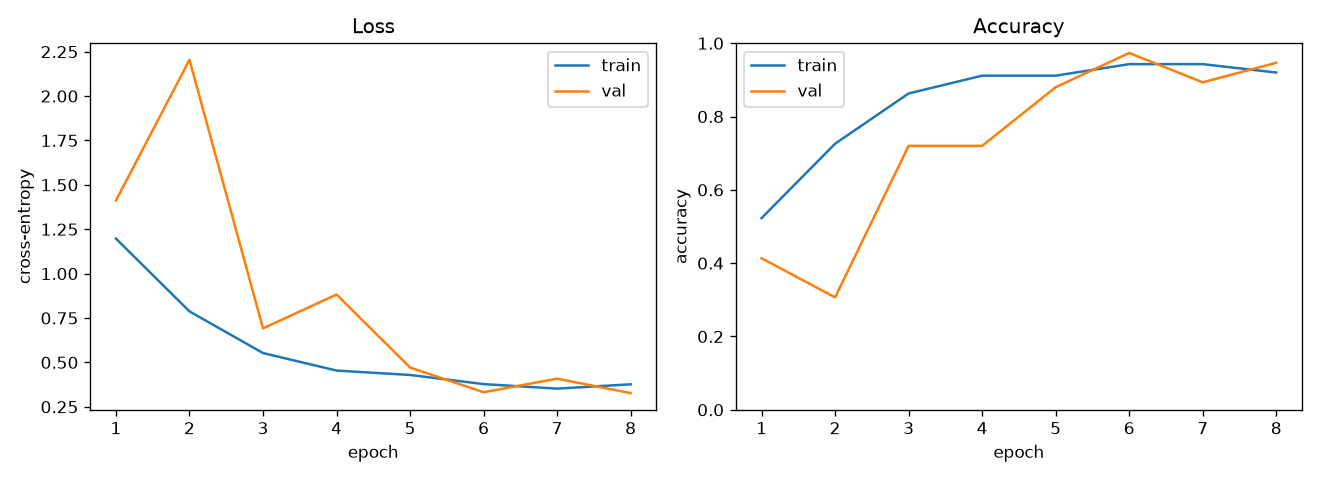
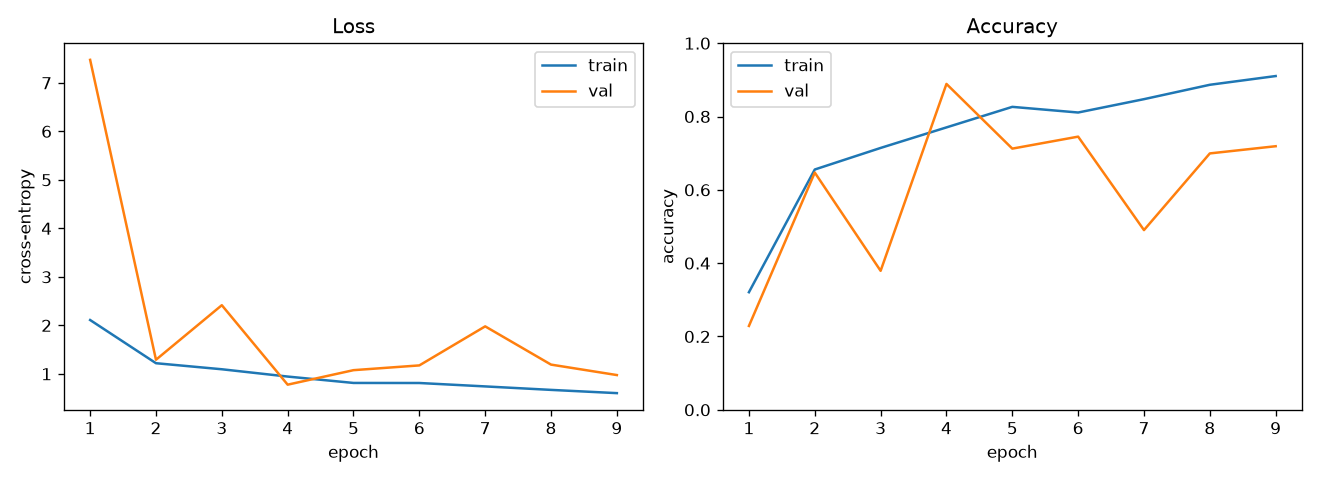
Ship ready-to-run 17-class NTLNP demo dataset and real-data downloader
The real NTLNP dataset (25,657 images on Hugging Face) and the ImageNet
weights could not be fetched here: this environment's egress policy blocks
huggingface.co and download.pytorch.org (both return 403). To keep the repo
zero-setup and honest about that constraint:

- Commit a small, ready-to-run demo dataset (data/demo_ntlnp/) using the real
  17 NTLNP species names, so the full pipeline runs straight after git clone.
  The synthetic generator now produces a visually distinct silhouette per
  class; training reaches ~0.86 test accuracy across all 17 classes.
- Add scripts/download_ntlnp.sh to clone the real dataset from Hugging Face
  via git-lfs on a machine with network access.
- Refresh committed demo plots/metrics for the 17-class run.
- Update README: one-command test on the demo data, real-data instructions,
  and a clear note on the sandbox egress restriction.

Claude-Session: https://claude.ai/code/session_01V6K9fomXbdbJNVT5RN4tm4

diff --git a/src/synthetic.py b/src/synthetic.py
@@ -22,43 +22,69 @@ from typing import List
 import numpy as np
 from PIL import Image, ImageDraw
 
-# Stand-in species names; the real dataset defines its own class folders.
-DEFAULT_SPECIES = ["amur_leopard", "amur_tiger", "red_fox", "wild_boar", "roe_deer"]
+# The real 17 NTLNP classes (Northeast Tiger & Leopard National Park).
+# Using the real taxonomy so the demo dataset mirrors the actual folder layout.
+DEFAULT_SPECIES = [
+    "amur_tiger", "amur_leopard", "wild_boar", "roe_deer", "sika_deer",
+    "asian_black_bear", "red_fox", "asian_badger", "raccoon_dog", "musk_deer",
+    "siberian_weasel", "sable", "yellow_throated_marten", "leopard_cat",
+    "manchurian_hare", "cow", "dog",
+]
+
+
+def _class_attributes(species_idx: int) -> dict:
+    """Deterministic, per-class silhouette attributes.
+
+    Each class gets a distinct combination of body shape, aspect ratio,
+    brightness band, and appendages (ears / tail / legs) so that all 17 classes
+    are visually separable — otherwise a classifier could not learn them apart.
+    Variation *within* a class is added later from the RNG.
+    """
+    body_shapes = ["ellipse", "rounded_rect", "rect"]
+    return {
+        "body": body_shapes[species_idx % 3],
+        "aspect": 1.1 + 0.22 * (species_idx % 5),      # length/height ratio
+        "bright": 140 + 9 * (species_idx % 10),        # base IR brightness band
+        "ears": (species_idx % 2 == 0),                # pointy ears
+        "tail": (species_idx % 3 == 0),                # long tail
+        "legs": [0, 2, 4][species_idx % 3],            # number of visible legs
+        "size": 0.16 + 0.015 * (species_idx % 6),      # relative body size
+    }
 
 
 def _draw_silhouette(draw: ImageDraw.ImageDraw, species_idx: int, size: int,
                      rng: np.random.Generator) -> None:
-    """Draw a rough, species-specific bright shape on a dark background."""
-    cx = rng.integers(size // 3, 2 * size // 3)
-    cy = rng.integers(size // 3, 2 * size // 3)
-    scale = rng.uniform(0.18, 0.30) * size
-    fill = int(rng.integers(150, 230))  # animals read brighter than background in IR
+    """Draw a rough, class-distinct bright shape on a dark background."""
+    attr = _class_attributes(species_idx)
+    cx = rng.integers(int(size * 0.38), int(size * 0.62))
+    cy = rng.integers(int(size * 0.40), int(size * 0.60))
+    scale = (attr["size"] + rng.uniform(-0.02, 0.02)) * size
+    fill = int(np.clip(attr["bright"] + rng.integers(-15, 15), 90, 235))
+    aspect = attr["aspect"]
 
-    shape = species_idx % 5
-    if shape == 0:  # elongated body (big cat)
-        draw.ellipse([cx - scale * 1.6, cy - scale * 0.6,
-                      cx + scale * 1.6, cy + scale * 0.6], fill=fill)
-    elif shape == 1:  # body + prominent tail (tiger-ish)
-        draw.ellipse([cx - scale * 1.4, cy - scale * 0.7,
-                      cx + scale * 1.4, cy + scale * 0.7], fill=fill)
-        draw.line([cx + scale * 1.4, cy, cx + scale * 2.4, cy - scale],
-                  fill=fill, width=max(2, int(scale * 0.25)))
-    elif shape == 2:  # compact + pointy ears (fox)
-        draw.ellipse([cx - scale, cy - scale, cx + scale, cy + scale], fill=fill)
-        draw.polygon([(cx - scale, cy - scale), (cx - scale * 0.5, cy - scale * 1.8),
-                      (cx, cy - scale)], fill=fill)
-        draw.polygon([(cx, cy - scale), (cx + scale * 0.5, cy - scale * 1.8),
-                      (cx + scale, cy - scale)], fill=fill)
-    elif shape == 3:  # bulky low body (boar)
-        draw.rectangle([cx - scale * 1.3, cy - scale * 0.5,
-                        cx + scale * 1.3, cy + scale * 0.8], fill=fill)
-    else:  # tall body + legs (deer)
-        draw.ellipse([cx - scale, cy - scale * 0.6, cx + scale, cy + scale * 0.4],
-                     fill=fill)
-        for dx in (-0.7, -0.3, 0.3, 0.7):
-            draw.line([cx + scale * dx, cy + scale * 0.4,
-                       cx + scale * dx, cy + scale * 1.4],
-                      fill=fill, width=max(2, int(scale * 0.15)))
+    hw, hh = scale * aspect, scale  # half-width, half-height
+    box = [cx - hw, cy - hh, cx + hw, cy + hh]
+    if attr["body"] == "ellipse":
+        draw.ellipse(box, fill=fill)
+    elif attr["body"] == "rounded_rect":
+        draw.rounded_rectangle(box, radius=int(scale * 0.5), fill=fill)
+    else:
+        draw.rectangle(box, fill=fill)
+
+    if attr["tail"]:
+        draw.line([cx + hw, cy, cx + hw + scale * 1.1, cy - scale * 0.9],
+                  fill=fill, width=max(2, int(scale * 0.22)))
+    if attr["ears"]:
+        draw.polygon([(cx - hw * 0.7, cy - hh), (cx - hw * 0.4, cy - hh - scale * 0.9),
+                      (cx - hw * 0.1, cy - hh)], fill=fill)
+        draw.polygon([(cx + hw * 0.1, cy - hh), (cx + hw * 0.4, cy - hh - scale * 0.9),
+                      (cx + hw * 0.7, cy - hh)], fill=fill)
+    if attr["legs"]:
+        step = (2 * hw) / (attr["legs"] + 1)
+        for i in range(1, attr["legs"] + 1):
+            lx = cx - hw + step * i
+            draw.line([lx, cy + hh, lx, cy + hh + scale * 0.9],
+                      fill=fill, width=max(2, int(scale * 0.13)))
 
 
 def _make_image(species_idx: int, size: int, rng: np.random.Generator) -> Image.Image:

diff --git a/README.md b/README.md
@@ -43,58 +43,80 @@ pip install -r requirements.txt          # torch, torchvision, numpy, scikit-lea
 pip install ultralytics opencv-python-headless
 ```
 
-## Quick start (runs anywhere, no dataset download needed)
+## Test it in one command (no download, no setup beyond `pip install`)
 
-The full pipeline can be exercised on a synthetic night-vision dataset. This is a
-**smoke test / demo**, not a scientific result — the images are fabricated
-silhouettes designed only to make every code path runnable and every plot
-reproducible on a plain CPU.
+The repo ships a small **ready-to-run dataset** at
+[`data/demo_ntlnp/`](data/demo_ntlnp) — 17 folders named for the **real NTLNP
+species** (amur_tiger, amur_leopard, red_fox, …), each with 60 synthetic
+night-vision frames. This lets the *entire* pipeline run straight after
+`git clone`, on a plain CPU, in a few minutes.
+
+> These demo images are **fabricated IR silhouettes**, one distinct shape per
+> species — a smoke test that exercises every code path and reproduces every
+> plot. They are **not** the real NTLNP photos and the numbers below are **not**
+> a scientific result. To run on the real data, see the next section.
 
 ```bash
-# 1. Make a small synthetic dataset (5 fake species, ImageFolder layout)
-python scripts/make_synthetic_data.py --out data/synthetic --per-class 100 --image-size 128
+pip install -r requirements.txt
 
-# 2. Train (from scratch here; use --pretrained on a machine with internet)
-python scripts/run_training.py --data-dir data/synthetic --epochs 8 --image-size 128 \
+# Train (from scratch; the sandbox blocks the ImageNet-weights download — see note)
+python scripts/run_training.py --data-dir data/demo_ntlnp --epochs 12 --image-size 128 \
     --no-pretrained --freeze-until "" --output-dir results/demo --device cpu
 
-# 3. Evaluate on the held-out test split
+# Evaluate on the held-out test split
 python scripts/run_evaluation.py --output-dir results/demo --device cpu
 
-# 4. Classify one image
-python scripts/predict.py data/synthetic/red_fox/red_fox_0000.jpg \
+# Classify one image
+python scripts/predict.py data/demo_ntlnp/red_fox/red_fox_0000.jpg \
     --checkpoint results/demo/best_model.pt
 ```
 
-Outputs (checkpoint, `metrics.json`, training curves, confusion matrix, baseline
-bar chart) land in `results/demo/`. A committed copy of the plots from one such
-run is in [`docs/demo_results/`](docs/demo_results/).
+On the committed demo data this reaches **~0.86 test accuracy across all 17
+classes** (macro precision ~0.90 / recall ~0.86). Outputs — checkpoint,
+`metrics.json`, training curves, confusion matrix, and the baseline bar chart —
+land in `results/demo/`; a committed snapshot of the plots is in
+[`docs/demo_results/`](docs/demo_results/).
+
+You can regenerate the demo dataset with different size/seed:
+
+```bash
+python scripts/make_synthetic_data.py --out data/demo_ntlnp --per-class 60 --image-size 128
+```
 
 ## Running on the real NTLNP dataset
 
-1. Download NTLNP from https://github.com/myyyyw/NTLNP.
-2. Arrange it as one folder per species (ImageFolder layout):
+The real dataset is **25,657 infrared camera-trap images across 17 species**,
+hosted on Hugging Face. A downloader is included:
 
-   ```
-   data/ntlnp/
-     amur_leopard/  img001.jpg ...
-     amur_tiger/    ...
-     red_fox/       ...
-   ```
-3. Train with ImageNet-pretrained transfer learning (retraining the last block):
+```bash
+bash scripts/download_ntlnp.sh          # needs git-lfs; clones from Hugging Face
+```
 
-   ```bash
-   python scripts/run_training.py --data-dir data/ntlnp --backbone resnet18 \
-       --pretrained --freeze-until layer4 --epochs 15 --output-dir results/ntlnp
-   python scripts/run_evaluation.py --output-dir results/ntlnp
-   ```
+Then arrange the frames as one folder per species (ImageFolder layout):
 
-   > **Note on this sandbox:** downloading ImageNet weights requires network
-   > access to `download.pytorch.org`, which is blocked by the egress policy of
-   > the environment this repo was built in. That is why the demo above uses
-   > `--no-pretrained`. On any normal machine, drop `--no-pretrained` (or pass
-   > `--pretrained`) to get the transfer-learning setup the project is really
-   > about, which is what drives the accuracies reported in the literature.
+```
+data/ntlnp/
+  amur_tiger/    img001.jpg ...
+  amur_leopard/  ...
+  red_fox/       ...
+```
+
+and train with ImageNet-pretrained transfer learning (retraining the last block):
+
+```bash
+python scripts/run_training.py --data-dir data/ntlnp --backbone resnet18 \
+    --pretrained --freeze-until layer4 --epochs 15 --output-dir results/ntlnp
+python scripts/run_evaluation.py --output-dir results/ntlnp
+```
+
+> **Why the real data isn't committed here.** This repo was built inside a
+> sandbox whose egress policy **blocks `huggingface.co` and
+> `download.pytorch.org`** (verified: both return HTTP 403). So neither the real
+> dataset nor the ImageNet weights could be fetched from the build environment —
+> that is why the committed demo uses a synthetic dataset and `--no-pretrained`.
+> On any normal machine `scripts/download_ntlnp.sh` fetches the real data, and
+> dropping `--no-pretrained` gives the transfer-learning setup the project is
+> really about, which drives the accuracies reported in the literature.
 
 ### Optional: detect-and-crop with YOLOv8
 